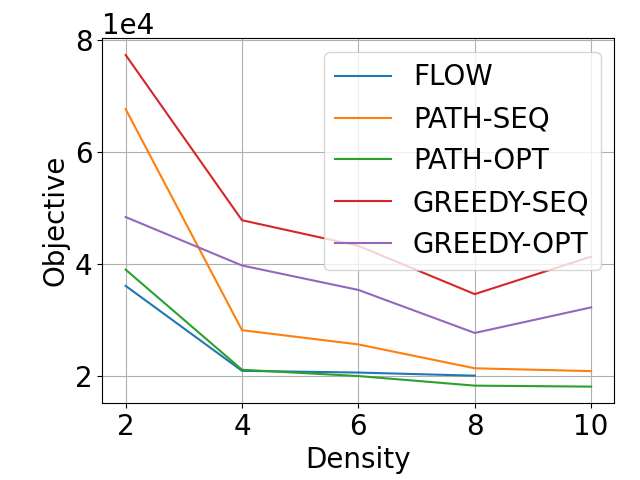
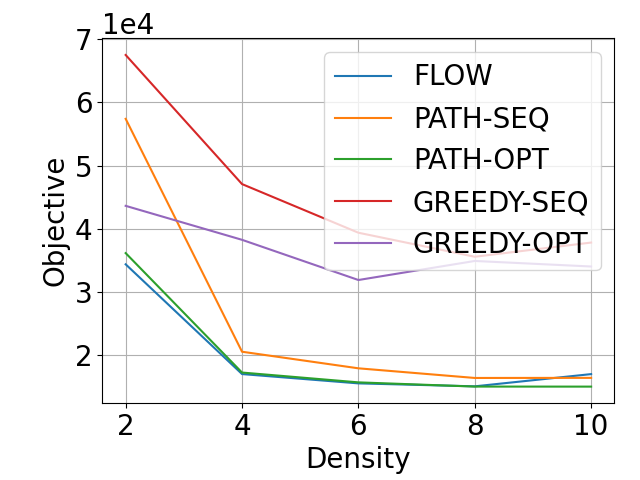
sync

diff --git a/src/test/efficiency.py b/src/test/efficiency.py
@@ -204,7 +204,7 @@ def compare_efficiency(vsrc:VertexSource, params, repeat=1):
 
             pickle.dump(
                 (densities, ys1, ys2, y1_labels, y2_labels),
-                open(f'./result/efficiency/efficiency-{vset.name}.pkl', 'wb')
+                open(f'./result/efficiency/efficiency-{vset.name}-avg.pkl', 'wb')
             )
 
             plot_lines(
@@ -276,8 +276,8 @@ if __name__ == '__main__':
     params = copy.deepcopy(HWParam)
     params['swap_prob'] = 0.75
 
-    # vsrcs = [VertexSource.EENET, VertexSource.NOEL, VertexSource.RENATOR]
-    vsrcs = [VertexSource.NOEL, VertexSource.RENATOR]
+    vsrcs = [VertexSource.EENET, VertexSource.NOEL, VertexSource.RENATOR]
+    # vsrcs = [VertexSource.NOEL, VertexSource.RENATOR]
     for vsrc in vsrcs:
-        compare_efficiency(vsrc, params, repeat=1)
+        compare_efficiency(vsrc, params, repeat=5)
     
